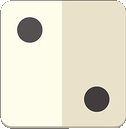
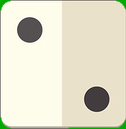
Add files via upload
Slight optimizations: removed transparency from dice (assuming will improve performance)
Added delays for troubleshooting purposes

diff --git a/CPSC386Project2Yahtze.py b/CPSC386Project2Yahtze.py
@@ -9,6 +9,7 @@ from random import *
 import pygame.time
 from pygame import *
 
+
 # Function: mainScreen
 # Date of code (Last updated): 9/28
 # Programmer: Andy Nguyen
@@ -44,7 +45,6 @@ def playerAvatars(screen):
     P2color = (255, 0, 25)  # red
     avatarP1 = draw.circle(screen, P1color, (500, 650), 50)
     avatarP2 = draw.circle(screen, P2color, (500, 80), 50)
-
     display.update()
 
 
@@ -81,7 +81,7 @@ def displayRollingDice(array, iteration):
     if iteration == 4:
         display.get_surface().blit(diceNumber, (745, 300))
 
-    display.flip()
+    display.update()
 
 
 # Function: displayKeptDice
@@ -541,30 +541,34 @@ class Rules:
 clock = pygame.time.Clock()
 currentScreen = mainScreen()
 playerAvatars(currentScreen)
-dice1 = image.load("dice1.png").convert_alpha()
-dice2 = image.load("dice2.png").convert_alpha()
-dice3 = image.load("dice3.png").convert_alpha()
-dice4 = image.load("dice4.png").convert_alpha()
-dice5 = image.load("dice5.png").convert_alpha()
-dice6 = image.load("dice6.png").convert_alpha()
+dice1 = image.load("dice1.png").convert()
+dice2 = image.load("dice2.png").convert()
+dice3 = image.load("dice3.png").convert()
+dice4 = image.load("dice4.png").convert()
+dice5 = image.load("dice5.png").convert()
+dice6 = image.load("dice6.png").convert()
 roll_sound = load_sound('roll.wav')
-display.update() #random display update to hopefully fix a bug
+display.update()  # random display update to hopefully fix a bug
 
 p1 = player
 gameRules = Rules
+time.delay(20)
+# I am assuming the main issue with the image bugs is because screen focus.
+# The input() command is causing major lag. Delay should give you a few more seconds before it breaks the program
+
 while (p1.numberOfRolls < 3 and p1.rollingDices != [0, 0, 0, 0, 0, 0]):
-    clock.tick(60)
     p1.rollDices(p1.rollingDices)
     p1.keepDices(p1.rollingDices, p1.keptDice)
-    display.update()
+    display.flip()
+    clock.tick(60)
 
-print("These are the final dice: ", p1.keptDice) #used to check images
+print("These are the final dice: ", p1.keptDice)  # used to check images
 p1.keptDice.sort()
-#p1.printDices(p1.keptDice, "Kept Dice")
+# p1.printDices(p1.keptDice, "Kept Dice")
 gameRules.runUpperSection(p1.keptDice)
 gameRules.runLowerSection(p1.keptDice)
 
-time.delay(5) #Pause to check if last dice correct
+time.delay(5)  # Pause to check if last dice correct
 quit()
 
 # Resources:
